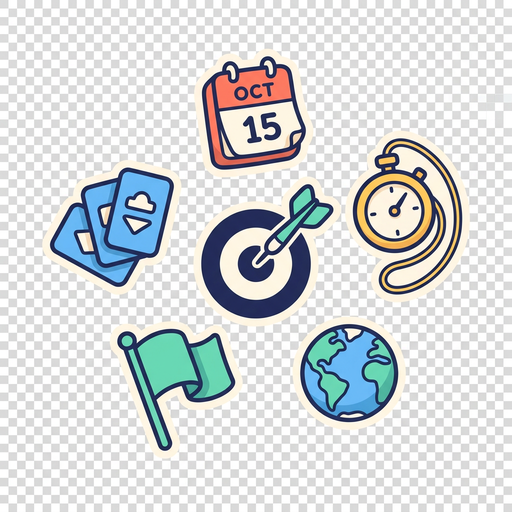
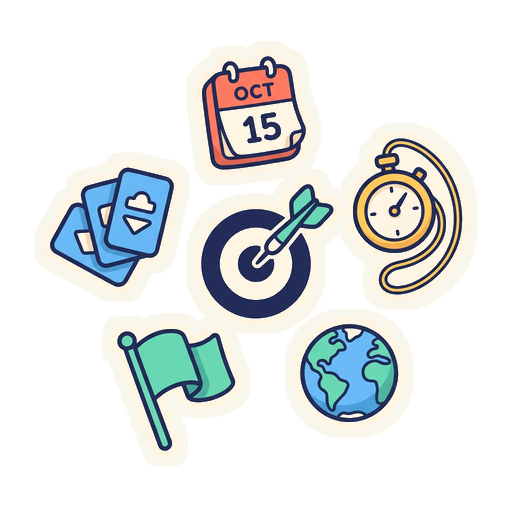
Les illustrations d'accueil retrouvent leur fond transparent
Les cinq PNG de l'onboarding avaient été exportés avec le damier de
transparence aplati dans leurs pixels : alpha à 255 partout, et un
damier gris bien visible derrière chaque sticker à l'écran.

Le fond est retiré par propagation depuis les bords. Deux difficultés
ont guidé le traitement : les cases claires du damier sont en blanc pur,
exactement la couleur du liseré du sticker, donc le liseré est effacé
avec le fond puis redessiné par dilatation dans sa teinte crème, relevée
sur chaque image ; et les zones que l'illustration voulait transparentes
— le verre du sablier, les creux du podium — n'étaient pas jointes aux
bords, elles sont traitées à part.

Au passage, la sixième capture App Store est la Roulette des drapeaux,
comme le dit déjà la fiche : MARKETING.md disait encore « collection ».

Claude-Session: https://claude.ai/code/session_018jN6SZLpXQPRsd6FLUtqcz

diff --git a/docs/MARKETING.md b/docs/MARKETING.md
@@ -67,7 +67,7 @@ ou d'abonnement dans `pubspec.yaml`.
 | Sous-titre | `Le jeu d'histoire en famille` | ✅ |
 | Mots-clés (100 **octets**, accents comptés double) | `quizz,frise,chronologie,date,culture,générale,brevet,éducatif,afrique,collège,révision,enfant` | ✅ |
 | Description | rédigée et saisie — texte intégral dans `docs/FICHE_APP_STORE.md` | ✅ |
-| Captures | 6 par taille (iPhone 6,5″ et iPad obligatoires — se fier au cadre de dépôt) : ① frise en pleine partie, ② révélation « PERFECT 🎯 », ③ défi du jour + série, ④ grille de partage, ⑤ Chrono, ⑥ collection. Textes courts par capture (« Fais défiler le temps ») | ⬜ |
+| Captures | 6 par taille (iPhone 6,5″ et iPad obligatoires — se fier au cadre de dépôt) : ① frise en pleine partie, ② révélation « PERFECT 🎯 », ③ défi du jour + série, ④ grille de partage, ⑤ Chrono, ⑥ Roulette des drapeaux. Textes courts par capture (« Fais défiler le temps ») | ⬜ |
 | Vidéo de preview | 15-20 s : le geste de défilement, une révélation, la grille copiée | ⬜ (optionnel mais le geste est notre meilleur argument) |
 | Notes & avis | Demande de note in-app (`lib/core/avis.dart`) : après un PERFECT, un record ou 3 défis d'affilée, une seule fois, jamais au lancement | ✅ fait le 5 août 2026 |
 | Fiche confidentialité | « Aucune donnée collectée » — déclarée et publiée | ✅ |
